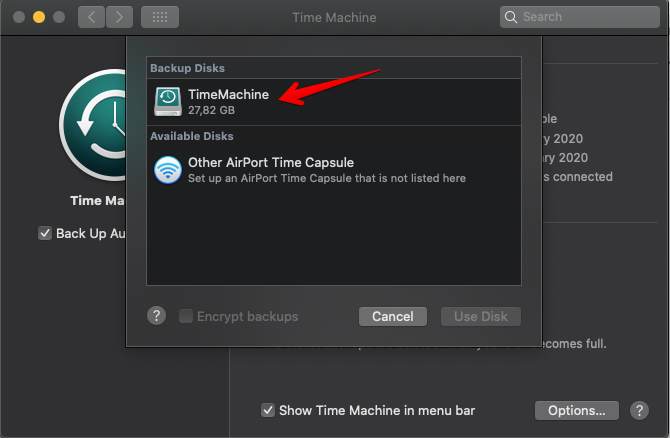
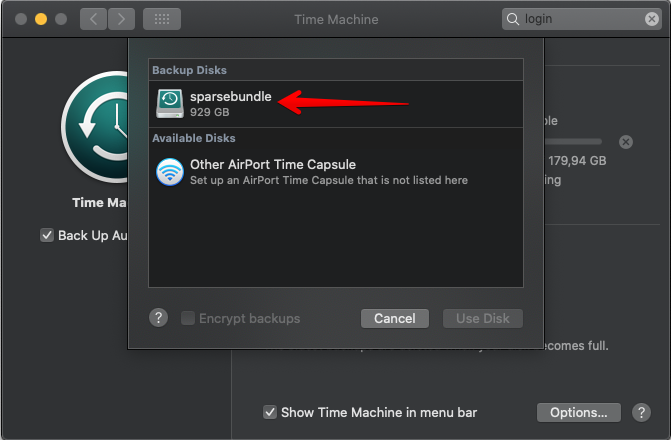
add missing command, time machine

diff --git a/time-machine-en-carpeta-compartida-de-windows/index.html b/time-machine-en-carpeta-compartida-de-windows/index.html
@@ -297,6 +297,8 @@
   <li><strong>Añades la carpeta montada y el fichero.dmg</strong> que hemos creado.</li>
 </ol>
 
+<p>Esta parte me ha dado problemas, en cada login me pedía los credenciales aunque marcara que los guardara en KeyChain. Valida que no tengas varios logins sobre el mismo disco en KeyChain, cuando he eliminado duplicados me ha funcionado.</p>
+
 <p><img src="../images/login_items.png" alt="Login Items" /></p>
 
 <h2 id="5-configura-timemachine-para-usar-esa-imagen">5 Configura TimeMachine para usar esa imagen</h2>
@@ -304,6 +306,15 @@
 <p>Por último, tenemos que comprobar que Time Machine puede ver esta imagen y usarla. En <code class="highlighter-rouge">Preferencias del Sistema &gt; Time Machine</code> valida que la disco configurado es el sparsebundle que hemos creado.</p>
 
 <p><img src="../images/TimeMachine_disk.png" alt="Disco Time Machine" /></p>
+
+<p>Para poder añadirlo sino aparece, con el disco montado, ejecuta el comando:
+<code class="highlighter-rouge">ls /Volumes</code>
+y luego con el nombre de la imagen creada en el paso 3, en mi caso lo había nombrado sparsebundle, ejecuta:
+<code class="highlighter-rouge">sudo tmutil setdestination /Volumes/sparsebundle</code></p>
+
+<p><img src="../images/timemachine_image_name.png" alt="Time Machine image name" /></p>
+
+<p>Puede que también tengas que utilizar <code class="highlighter-rouge">sudo tmutil enable</code> si no tienes Time Machine activado.</p>
 
 <h2 id="6-disfruta">6 Disfruta</h2>
 
